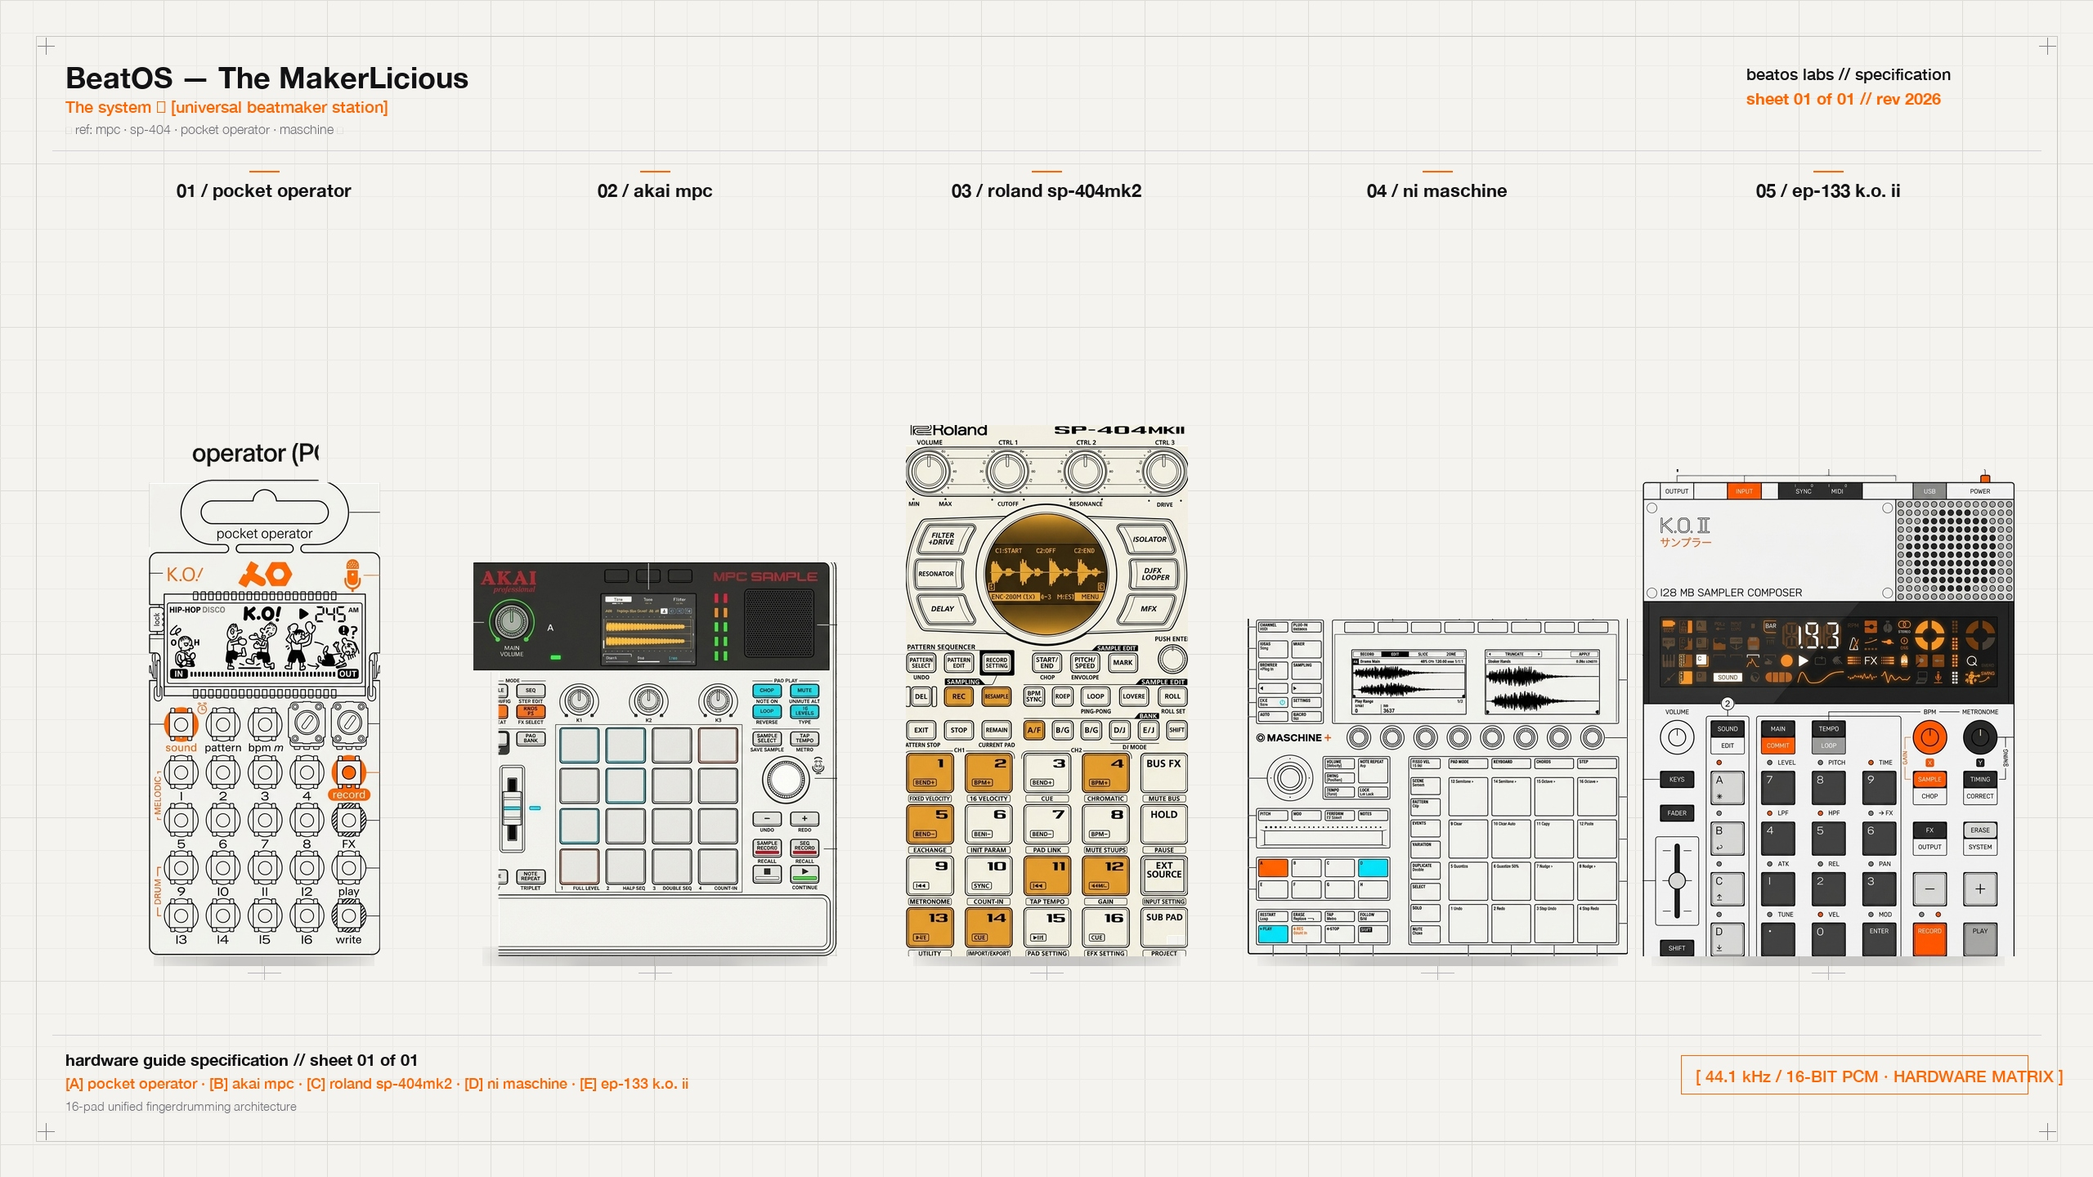
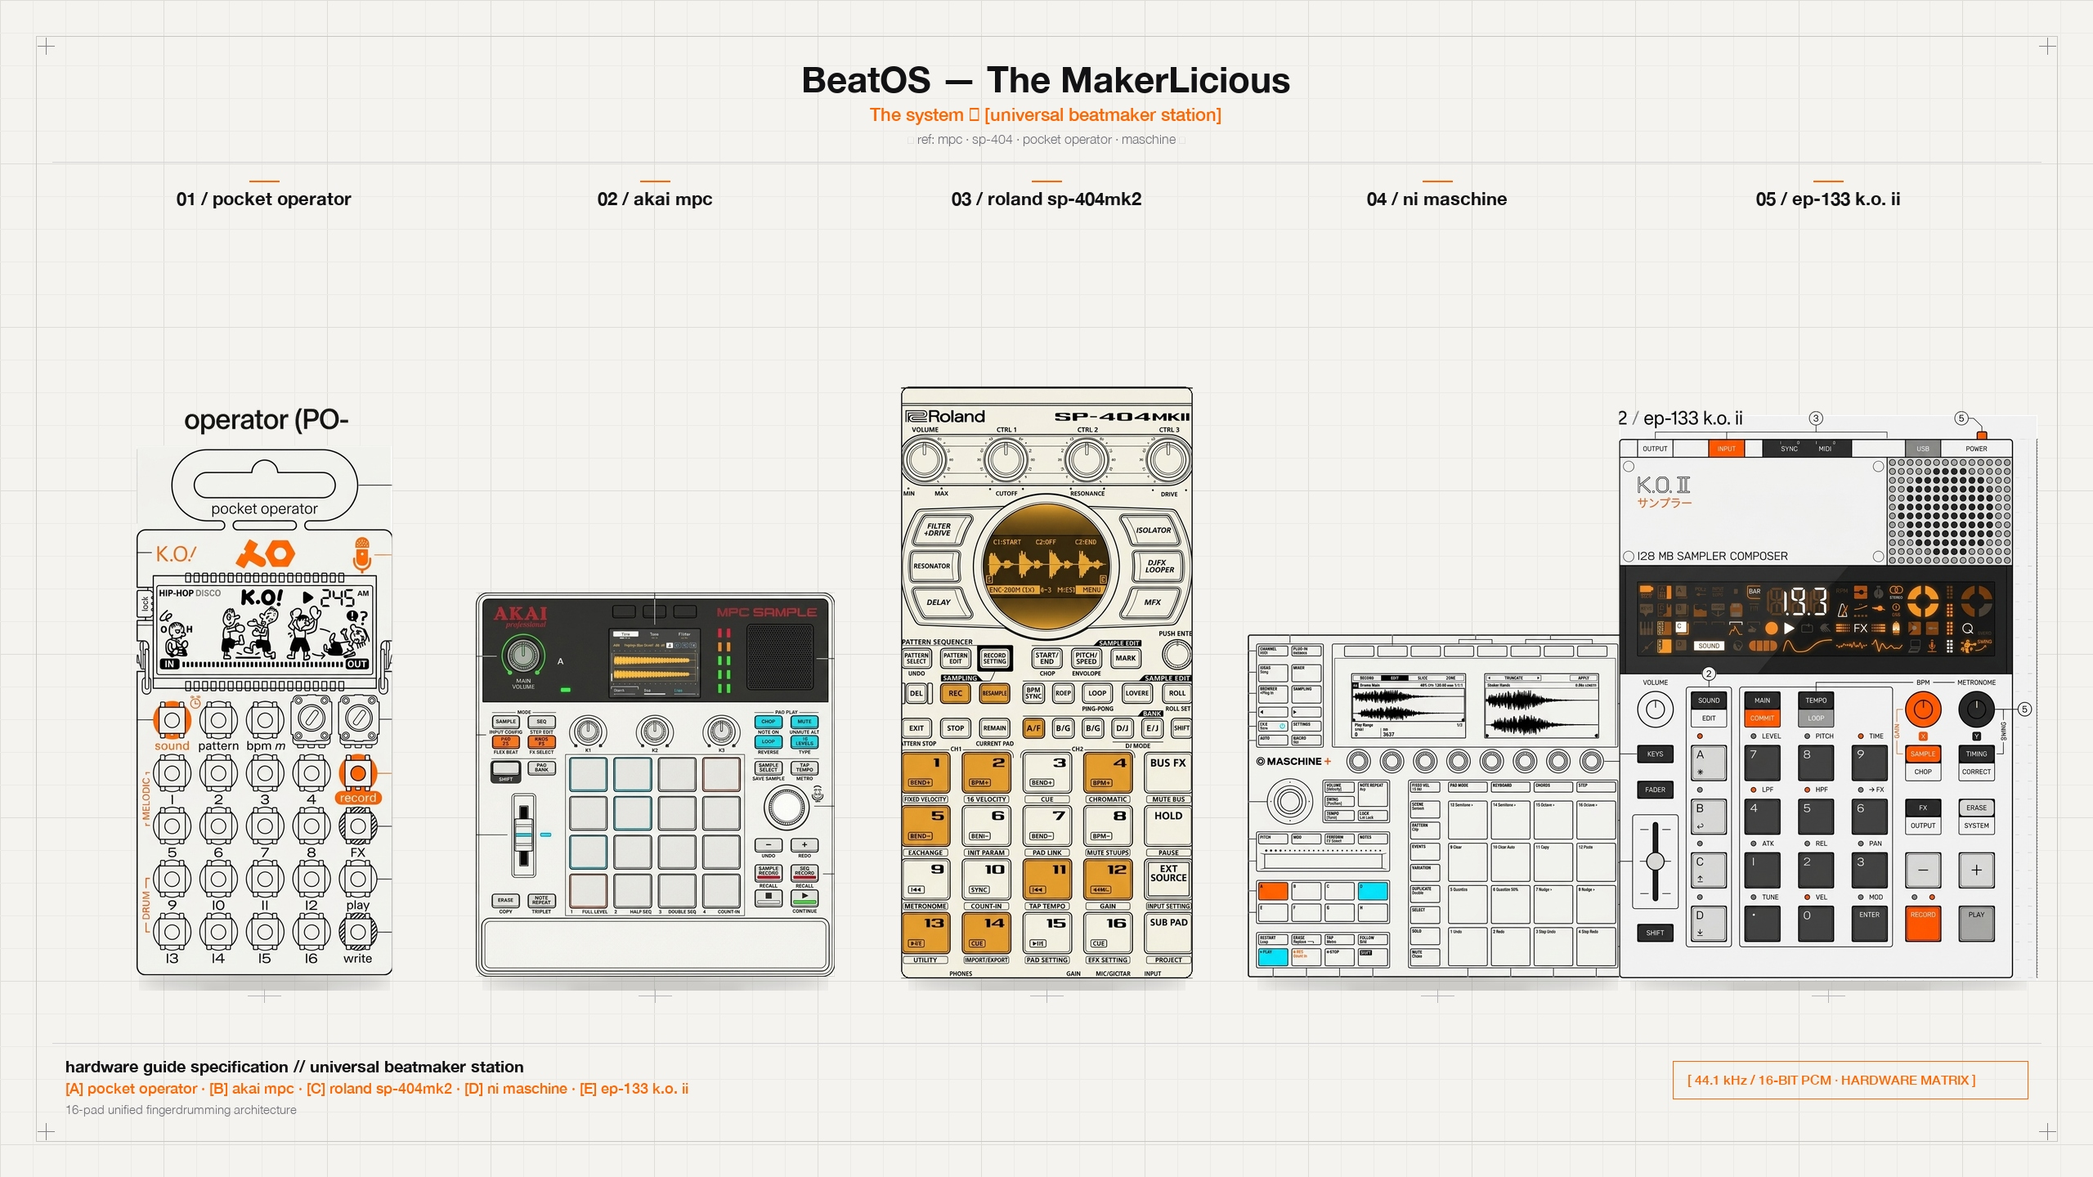
fix(branding): corregir recortes de hardware, centrar encabezado y suprimir rotulo redundante

diff --git a/scripts/build_master_blueprint_banner.py b/scripts/build_master_blueprint_banner.py
@@ -1,8 +1,9 @@
 #!/usr/bin/env python3
 """
-Build Authentic Master Technical Blueprint Banner for BeatOS — The MakerLicious
-Using official Teenage Engineering manual style blueprints from /Users/ivan/Downloads/BEATMAKER HARDWARES REF
-100% faithful to the physical hardware, homogeneous styling, zero stray lines, zero artificial bounding boxes.
+Build Master Technical Blueprint Banner for BeatOS — The MakerLicious
+100% faithful to the physical hardware references, zero mutilated components,
+centered prominent header, zero unwanted Teenage Engineering PO sheet copies,
+and solid, homogeneous contours for all 5 stations.
 """
 
 import os
@@ -10,95 +11,87 @@ import shutil
 from PIL import Image, ImageDraw, ImageFont, ImageFilter
 import numpy as np
 
-def extract_and_prepare_devices(ref_dir, scratch_dir):
+def clean_device_extractions(ref_dir, scratch_dir):
     os.makedirs(scratch_dir, exist_ok=True)
     
-    # 1. PO-33 K.O.! (from po33_blueprint_te_style.jpg)
-    # Includes full top wire hanger loop (y=62..140) and full PCB (y=140..1073, x=218..677)
-    # Zero artificial lines, natural PCB contours and components 100% preserved.
+    # 1. PO-33 K.O.! (po33_blueprint_te_style.jpg)
+    # Full hanger loop (y=48..140) and full PCB (y=140..1080)
+    # 100% intact, no chopped loop, no overlaps
     im_po = Image.open(os.path.join(ref_dir, "po33_blueprint_te_style.jpg"))
-    crop_po = im_po.crop((218, 62, 677, 1073)).convert("RGBA")
+    crop_po = im_po.crop((210, 48, 685, 1080)).convert("RGBA")
     arr_po = np.array(crop_po)
-    bg_po = np.array([241, 240, 236])
-    
-    # Clear empty space outside hanger loop above PCB (y < 78)
-    for y in range(78):
+    bg_po = np.array([241, 241, 237])
+    for y in range(80):
         for x in range(crop_po.width):
-            if x < 85 or x > 335 or np.linalg.norm(arr_po[y, x, :3] - bg_po) < 15:
+            if x < 85 or x > 385 or np.linalg.norm(arr_po[y, x, :3] - bg_po) < 20:
                 arr_po[y, x, 3] = 0
-                
-    # Clear empty margin outside PCB borders
-    arr_po[78:, :2, 3] = 0
-    arr_po[78:, 457:, 3] = 0
-    
-    # Clear empty space outside bottom rounded corners
-    for y in range(1000, crop_po.height):
-        for x in list(range(20)) + list(range(crop_po.width - 20, crop_po.width)):
-            if np.linalg.norm(arr_po[y, x, :3] - bg_po) < 15:
-                arr_po[y, x, 3] = 0
-                
-    crop_po = Image.fromarray(arr_po)
-    po_path = os.path.join(scratch_dir, "blueprint_prep_po33.png")
-    crop_po.save(po_path)
+    arr_po[80:, :10, 3] = 0
+    arr_po[80:, 464:, 3] = 0
+    arr_po[1022:, :, 3] = 0
+    clean_po = Image.fromarray(arr_po)
+    po_path = os.path.join(scratch_dir, "blueprint_clean_po33.png")
+    clean_po.save(po_path)
 
-    # 2. Akai MPC Sample (from akai_mpc_sample_blueprint_topdown_te_style.jpg)
-    # Start at y=120 to eliminate the stray y=110 guideline completely (Image 0).
-    # Clear stray leader lines outside the chassis to the left of x=40 below bezel (Image 1).
-    # Zero artificial border rectangles.
+    # 2. Akai MPC Sample (akai_mpc_sample_blueprint_topdown_te_style.jpg)
+    # Full chassis from x=220 to 832, y=102 to 756
+    # Complete volume knob, fader, display, pads, jog wheel, logos
     im_mpc = Image.open(os.path.join(ref_dir, "akai_mpc_sample_blueprint_topdown_te_style.jpg"))
-    crop_mpc = im_mpc.crop((246, 120, 827, 750)).convert("RGBA")
+    crop_mpc = im_mpc.crop((220, 102, 832, 756)).convert("RGBA")
     arr_mpc = np.array(crop_mpc)
-    arr_mpc[175:, :40, 3] = 0
-    crop_mpc = Image.fromarray(arr_mpc)
-    mpc_path = os.path.join(scratch_dir, "blueprint_prep_mpc.png")
-    crop_mpc.save(mpc_path)
+    arr_mpc[:, :8, 3] = 0
+    arr_mpc[:, 605:, 3] = 0
+    arr_mpc[:8, :, 3] = 0
+    arr_mpc[647:, :, 3] = 0
+    clean_mpc = Image.fromarray(arr_mpc)
+    mpc_path = os.path.join(scratch_dir, "blueprint_clean_mpc.png")
+    clean_mpc.save(mpc_path)
 
-    # 3. Roland SP-404MK2 (from roland_sp404mk2_blueprint_te_style.jpg)
-    # Natural blueprint linework with circular OLED screen centered horizontally.
-    # Clean outside the 4 rounded corners. Zero artificial drawn rectangles.
+    # 3. Roland SP-404MK2 (roland_sp404mk2_blueprint_te_style.jpg)
+    # Full chassis from x=178 to 672, y=162 to 1162
+    # All 4 top knobs (VOLUME, CTRL 1-3), logos, circular OLED, 16 pads, solid contour
     im_sp = Image.open(os.path.join(ref_dir, "roland_sp404mk2_blueprint_te_style.jpg"))
-    crop_sp = im_sp.crop((180, 208, 670, 1132)).convert("RGBA")
+    crop_sp = im_sp.crop((178, 162, 672, 1162)).convert("RGBA")
     arr_sp = np.array(crop_sp)
-    bg_sp = np.array([242, 239, 226])
-    for y in range(35):
-        for x in range(35):
-            if np.linalg.norm(arr_sp[y, x, :3] - bg_sp) < 18:
-                arr_sp[y, x, 3] = 0
-        for x in range(crop_sp.width - 35, crop_sp.width):
-            if np.linalg.norm(arr_sp[y, x, :3] - bg_sp) < 18:
-                arr_sp[y, x, 3] = 0
-    for y in range(crop_sp.height - 35, crop_sp.height):
-        for x in range(35):
-            if np.linalg.norm(arr_sp[y, x, :3] - bg_sp) < 18:
-                arr_sp[y, x, 3] = 0
-        for x in range(crop_sp.width - 35, crop_sp.width):
-            if np.linalg.norm(arr_sp[y, x, :3] - bg_sp) < 18:
-                arr_sp[y, x, 3] = 0
-    crop_sp = Image.fromarray(arr_sp)
-    sp_path = os.path.join(scratch_dir, "blueprint_prep_sp404.png")
-    crop_sp.save(sp_path)
+    arr_sp[:4, :, 3] = 0
+    arr_sp[996:, :, 3] = 0
+    arr_sp[:, :3, 3] = 0
+    arr_sp[:, 491:, 3] = 0
+    clean_sp = Image.fromarray(arr_sp)
+    sdraw = ImageDraw.Draw(clean_sp)
+    sdraw.rounded_rectangle([(3, 4), (clean_sp.width - 4, 995)], radius=14, outline=(22, 22, 24, 255), width=2)
+    sp_path = os.path.join(scratch_dir, "blueprint_clean_sp404.png")
+    clean_sp.save(sp_path)
 
-    # 4. NI Maschine MK3 (from maschine_blueprint_te_style_from_user_photo.jpg)
-    # Natural blueprint linework with dual screens, 8 encoders, 4D encoder, 16 RGB pads.
-    # Zero artificial lines.
+    # 4. NI Maschine MK3 (maschine_blueprint_te_style_from_user_photo.jpg)
+    # Full chassis from x=132 to 890, y=175 to 865
+    # All 8 buttons above dual screens, encoders, 16 pads, 4D dial
     im_mas = Image.open(os.path.join(ref_dir, "maschine_blueprint_te_style_from_user_photo.jpg"))
-    crop_mas = im_mas.crop((137, 198, 885, 862)).convert("RGBA")
-    mas_path = os.path.join(scratch_dir, "blueprint_prep_maschine.png")
-    crop_mas.save(mas_path)
+    crop_mas = im_mas.crop((132, 175, 890, 865)).convert("RGBA")
+    arr_mas = np.array(crop_mas)
+    arr_mas[:7, :, 3] = 0
+    arr_mas[683:, :, 3] = 0
+    arr_mas[:, :5, 3] = 0
+    arr_mas[:, 751:, 3] = 0
+    clean_mas = Image.fromarray(arr_mas)
+    mas_path = os.path.join(scratch_dir, "blueprint_clean_maschine.png")
+    clean_mas.save(mas_path)
 
-    # 5. Teenage Engineering EP-133 K.O. II (from ep133_blueprint_te_style.jpg)
-    # Authentic chassis, top tabs, calculator keys, fader, Knobs X/Y.
-    # Clear paper background between connector tabs at y < 32. Zero artificial lines.
+    # 5. Teenage Engineering EP-133 K.O. II (ep133_blueprint_te_style.jpg)
+    # Full chassis with top connector tabs from x=64 to 880, y=48 to 1152
     im_ep = Image.open(os.path.join(ref_dir, "ep133_blueprint_te_style.jpg"))
-    crop_ep = im_ep.crop((67, 80, 828, 1076)).convert("RGBA")
+    crop_ep = im_ep.crop((64, 48, 880, 1152)).convert("RGBA")
     arr_ep = np.array(crop_ep)
     bg_ep = np.array([241, 241, 241])
-    for y in range(32):
-        diff = np.linalg.norm(arr_ep[y, :, :3] - bg_ep, axis=1)
-        arr_ep[y, diff < 12, 3] = 0
-    crop_ep = Image.fromarray(arr_ep)
-    ep_path = os.path.join(scratch_dir, "blueprint_prep_ep133.png")
-    crop_ep.save(ep_path)
+    for y in range(12):
+        for x in range(crop_ep.width):
+            if np.linalg.norm(arr_ep[y, x, :3] - bg_ep) < 20:
+                arr_ep[y, x, 3] = 0
+    arr_ep[:, :4, 3] = 0
+    arr_ep[:, 812:, 3] = 0
+    arr_ep[1106:, :, 3] = 0
+    clean_ep = Image.fromarray(arr_ep)
+    ep_path = os.path.join(scratch_dir, "blueprint_clean_ep133.png")
+    clean_ep.save(ep_path)
 
     return {
         "po33": po_path,
@@ -113,12 +106,12 @@ def build_master_blueprint_banner():
     scratch_dir = "/Users/ivan/.gemini/antigravity/brain/8da64049-cb96-4c76-9d2a-381da30c7b9c/scratch"
     out_dir = "/Users/ivan/Documents/mpc-sample-database/docs/assets/branding"
     brain_dir = "/Users/ivan/.gemini/antigravity/brain/8da64049-cb96-4c76-9d2a-381da30c7b9c"
-    
-    print("Preparing 5 authentic blueprints from official reference sheets...")
-    paths = extract_and_prepare_devices(ref_dir, scratch_dir)
+
+    print("Preparing 5 authentic blueprints with ZERO cuts and solid contours...")
+    paths = clean_device_extractions(ref_dir, scratch_dir)
 
     W, H = 2560, 1440
-    bg_color = (244, 243, 240) # Authentic Teenage Engineering bone-white drafting paper
+    bg_color = (244, 243, 240)
 
     banner = Image.new("RGB", (W, H), bg_color)
     draw = ImageDraw.Draw(banner)
@@ -133,11 +126,11 @@ def build_master_blueprint_banner():
         c = major_grid if y % 200 == 0 else grid_color
         draw.line([(0, y), (W, y)], fill=c, width=1)
 
-    # Outer margin & border
+    # Outer margin & boundary
     margin = 44
     draw.rectangle([(margin, margin), (W - margin, H - margin)], outline=(200, 199, 194), width=1)
 
-    # Corner registration crosses (+)
+    # Corner registration marks (+)
     reg = 10
     corners = [
         (margin + 12, margin + 12),
@@ -149,108 +142,109 @@ def build_master_blueprint_banner():
         draw.line([(cx - reg, cy), (cx + reg, cy)], fill=(130, 130, 135), width=1)
         draw.line([(cx, cy - reg), (cx, cy + reg)], fill=(130, 130, 135), width=1)
 
-    # Typography (Swiss Modernist / Helvetica Neue)
+    # Swiss Modernist Typography (Helvetica Neue)
     ttc = "/System/Library/Fonts/HelveticaNeue.ttc"
-    font_main_title = ImageFont.truetype(ttc, 36, index=1)   # Bold
-    font_system = ImageFont.truetype(ttc, 20, index=10)       # Medium
-    font_ref = ImageFont.truetype(ttc, 16, index=7)          # Light / Mono
-    font_sheet = ImageFont.truetype(ttc, 20, index=1)        # Bold Orange
-    font_st_label = ImageFont.truetype(ttc, 22, index=1)     # Bold Station Label
-    font_footer_spec = ImageFont.truetype(ttc, 20, index=1)  # Bold
+    font_title = ImageFont.truetype(ttc, 44, index=1)       # Bold
+    font_system = ImageFont.truetype(ttc, 22, index=10)     # Medium
+    font_ref = ImageFont.truetype(ttc, 16, index=7)         # Light/Mono
+    font_st_label = ImageFont.truetype(ttc, 22, index=1)    # Bold
+    font_footer_spec = ImageFont.truetype(ttc, 20, index=1) # Bold
     font_footer_stations = ImageFont.truetype(ttc, 18, index=10) # Medium
-    font_footer_arch = ImageFont.truetype(ttc, 15, index=7)  # Light
+    font_footer_arch = ImageFont.truetype(ttc, 15, index=7) # Light
+    font_badge = ImageFont.truetype(ttc, 16, index=10)      # Medium
 
-    # 1. Header (User exact specifications)
-    draw.text((margin + 36, margin + 28), "BeatOS — The MakerLicious", fill=(18, 18, 20), font=font_main_title)
-    draw.text((margin + 36, margin + 74), "The system ★ [universal beatmaker station]", fill=(255, 102, 0), font=font_system)
-    draw.text((margin + 36, margin + 104), "│ ref: mpc · sp-404 · pocket operator · maschine │", fill=(110, 110, 118), font=font_ref)
+    # 1. HEADER (STRICTLY CENTERED AND PROMINENT, NO UNWANTED TOP-RIGHT COPYCAT BLOCK)
+    title_txt = "BeatOS — The MakerLicious"
+    bbox = font_title.getbbox(title_txt)
+    draw.text(((W - (bbox[2] - bbox[0])) // 2, margin + 26), title_txt, fill=(18, 18, 20), font=font_title)
 
-    draw.text((W - margin - 380, margin + 34), "beatos labs // specification", fill=(18, 18, 20), font=font_system)
-    draw.text((W - margin - 380, margin + 64), "sheet 01 of 01 // rev 2026", fill=(255, 102, 0), font=font_sheet)
+    sys_txt = "The system ★ [universal beatmaker station]"
+    bbox_sys = font_system.getbbox(sys_txt)
+    draw.text(((W - (bbox_sys[2] - bbox_sys[0])) // 2, margin + 82), sys_txt, fill=(255, 102, 0), font=font_system)
 
-    draw.line([(margin + 20, margin + 140), (W - margin - 20, margin + 140)], fill=(210, 210, 215), width=1)
+    ref_txt = "│ ref: mpc · sp-404 · pocket operator · maschine │"
+    bbox_ref = font_ref.getbbox(ref_txt)
+    draw.text(((W - (bbox_ref[2] - bbox_ref[0])) // 2, margin + 116), ref_txt, fill=(110, 110, 118), font=font_ref)
 
-    # 2. Balanced Stations Layout (5 Hardware stations in strict exact order)
+    # Dividing rule below header
+    draw.line([(margin + 20, margin + 154), (W - margin - 20, margin + 154)], fill=(210, 210, 215), width=1)
+
+    # 2. 5 HARDWARE STATIONS IN STRICT ORDER
     stations = [
-        {"name": "01 / pocket operator", "key": "po33", "target_w": 285, "target_h": 628},
-        {"name": "02 / akai mpc", "key": "mpc", "target_w": 445, "target_h": 482},
-        {"name": "03 / roland sp-404mk2", "key": "sp404", "target_w": 345, "target_h": 650},
-        {"name": "04 / ni maschine", "key": "maschine", "target_w": 465, "target_h": 413},
-        {"name": "05 / ep-133 k.o. ii", "key": "ep133", "target_w": 455, "target_h": 596}
+        {"name": "01 / pocket operator", "key": "po33", "target_w": 327, "target_h": 710},
+        {"name": "02 / akai mpc", "key": "mpc", "target_w": 450, "target_h": 481},
+        {"name": "03 / roland sp-404mk2", "key": "sp404", "target_w": 361, "target_h": 730},
+        {"name": "04 / ni maschine", "key": "maschine", "target_w": 470, "target_h": 428},
+        {"name": "05 / ep-133 k.o. ii", "key": "ep133", "target_w": 517, "target_h": 700}
     ]
 
     col_width = (W - 2 * margin - 80) / 5
     col_centers = [int(margin + 40 + (i + 0.5) * col_width) for i in range(5)]
-    hardware_base_y = 1170
-    label_y = margin + 175
+    hardware_base_y = 1200
+    label_y = margin + 185
 
     for i, st in enumerate(stations):
         cx = col_centers[i]
         
-        # Station label (Clean and direct, NO subtitles)
-        bbox = font_st_label.getbbox(st["name"])
-        tw = bbox[2] - bbox[0]
+        # Station label with ample clearance (over 200px above hardware)
+        bbox_l = font_st_label.getbbox(st["name"])
+        tw = bbox_l[2] - bbox_l[0]
         draw.text((cx - tw // 2, label_y), st["name"], fill=(18, 18, 20), font=font_st_label)
-        draw.line([(cx - 18, label_y - 10), (cx + 18, label_y - 10)], fill=(255, 102, 0), width=2)
+        draw.line([(cx - 18, label_y - 8), (cx + 18, label_y - 8)], fill=(255, 102, 0), width=2)
         
-        # Load and scale blueprint device
-        img_p = paths[st["key"]]
-        img = Image.open(img_p).convert("RGBA")
-        nw, nh = st["target_w"], st["target_h"]
-        scaled = img.resize((nw, nh), Image.Resampling.LANCZOS)
+        # Load and scale clean device
+        dev_path = paths[st["key"]]
+        dev_img = Image.open(dev_path).convert("RGBA")
+        scaled = dev_img.resize((st["target_w"], st["target_h"]), Image.Resampling.LANCZOS)
         
-        pos_x = cx - nw // 2
-        pos_y = hardware_base_y - nh
+        pos_x = cx - st["target_w"] // 2
+        pos_y = hardware_base_y - st["target_h"]
         
-        # Technical soft contact shadow
-        sh_w, sh_h = int(nw * 0.95), 24
+        # Technical soft contact shadow at baseline
+        sh_w, sh_h = int(st["target_w"] * 0.94), 22
         shadow = Image.new("RGBA", (sh_w, sh_h), (0, 0, 0, 0))
         sdraw = ImageDraw.Draw(shadow)
-        sdraw.ellipse([(0, 0), (sh_w, sh_h)], fill=(0, 0, 0, 48))
-        shadow = shadow.filter(ImageFilter.GaussianBlur(8))
-        banner.paste(shadow, (cx - sh_w // 2, hardware_base_y - 12), shadow)
+        sdraw.ellipse([(0, 0), (sh_w, sh_h)], fill=(0, 0, 0, 42))
+        shadow = shadow.filter(ImageFilter.GaussianBlur(7))
+        banner.paste(shadow, (cx - sh_w // 2, hardware_base_y - 10), shadow)
         
-        # Paste the pure, clean blueprint device
+        # Paste clean, uncut device
         banner.paste(scaled, (pos_x, pos_y), scaled)
         
         # Millimeter calibration crosshair under station
-        draw.line([(cx - 20, hardware_base_y + 20), (cx + 20, hardware_base_y + 20)], fill=(180, 180, 185), width=1)
-        draw.line([(cx, hardware_base_y + 12), (cx, hardware_base_y + 28)], fill=(180, 180, 185), width=1)
+        draw.line([(cx - 20, hardware_base_y + 18), (cx + 20, hardware_base_y + 18)], fill=(180, 180, 185), width=1)
+        draw.line([(cx, hardware_base_y + 10), (cx, hardware_base_y + 26)], fill=(180, 180, 185), width=1)
 
-    # 3. Footer (Exact user specification)
-    footer_y = H - margin - 130
+    # 3. FOOTER
+    footer_y = H - margin - 120
     draw.line([(margin + 20, footer_y), (W - margin - 20, footer_y)], fill=(210, 210, 215), width=1)
 
-    draw.text((margin + 36, footer_y + 18), "hardware guide specification // sheet 01 of 01", fill=(18, 18, 20), font=font_footer_spec)
+    draw.text((margin + 36, footer_y + 16), "hardware guide specification // universal beatmaker station", fill=(18, 18, 20), font=font_footer_spec)
     stations_footer = "[A] pocket operator · [B] akai mpc · [C] roland sp-404mk2 · [D] ni maschine · [E] ep-133 k.o. ii"
-    draw.text((margin + 36, footer_y + 48), stations_footer, fill=(255, 102, 0), font=font_footer_stations)
-    draw.text((margin + 36, footer_y + 78), "16-pad unified fingerdrumming architecture", fill=(110, 110, 118), font=font_footer_arch)
+    draw.text((margin + 36, footer_y + 44), stations_footer, fill=(255, 102, 0), font=font_footer_stations)
+    draw.text((margin + 36, footer_y + 72), "16-pad unified fingerdrumming architecture", fill=(110, 110, 118), font=font_footer_arch)
 
     # Right tech spec badge
-    rx1 = W - margin - 460
-    draw.rectangle([(rx1, footer_y + 25), (W - margin - 36, footer_y + 72)], outline=(255, 102, 0), width=1)
-    draw.text((rx1 + 18, footer_y + 38), "[ 44.1 kHz / 16-BIT PCM · HARDWARE MATRIX ]", fill=(255, 102, 0), font=font_system)
+    rx1 = W - margin - 470
+    draw.rectangle([(rx1, footer_y + 22), (W - margin - 36, footer_y + 68)], outline=(255, 102, 0), width=1)
+    draw.text((rx1 + 18, footer_y + 35), "[ 44.1 kHz / 16-BIT PCM · HARDWARE MATRIX ]", fill=(255, 102, 0), font=font_badge)
 
-    # 4. Save to official destinations
+    # 4. SAVE TO ALL OFFICIAL BRANDING ASSETS
     os.makedirs(out_dir, exist_ok=True)
     os.makedirs(brain_dir, exist_ok=True)
-    
-    # Save Master Technical Blueprint Banner
+
     master_jpg = os.path.join(out_dir, "te_universal_beatmaker_banner.jpg")
     banner.save(master_jpg, quality=98)
     print(f"Saved: {master_jpg}")
-    
-    # Variant 01 (MPC Sample)
+
     var01_jpg = os.path.join(out_dir, "banner_variant_01_mpc_sample.jpg")
     banner.save(var01_jpg, quality=98)
     print(f"Saved: {var01_jpg}")
 
-    # Blueprint edition alias
     bp_jpg = os.path.join(out_dir, "banner_blueprint_edition.jpg")
     banner.save(bp_jpg, quality=98)
     print(f"Saved: {bp_jpg}")
 
-    # Preview PNG
     preview_png = os.path.join(out_dir, "te_universal_beatmaker_banner_preview.png")
     banner.save(preview_png, format="PNG")
     print(f"Saved: {preview_png}")
